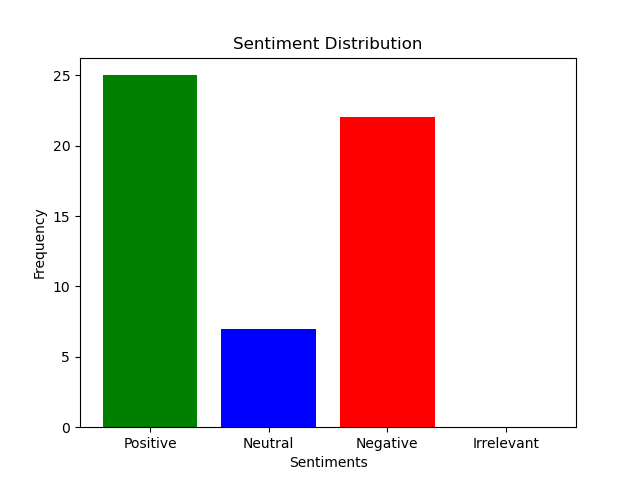
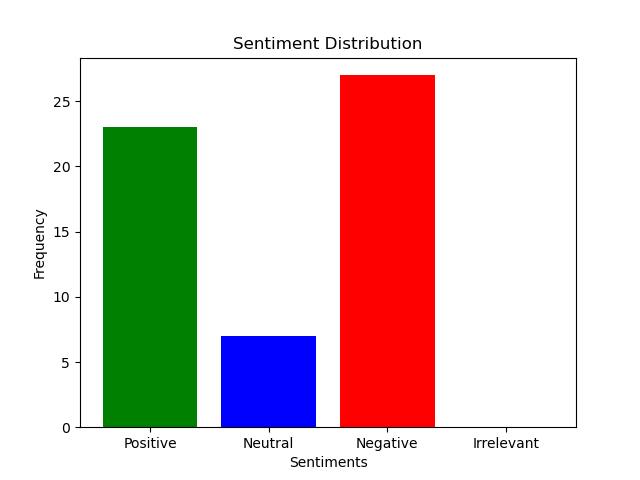
Updated

diff --git a/main.py b/main.py
@@ -8,7 +8,12 @@ def run(filepath: str):
     """
     Loads customer reviews from a JSON file, gets sentiment labels,
     and visualizes the sentiment distribution.
-    Returns a list of sentiment labels.
+
+    Args:
+        filepath (str): The path to the JSON file containing the customer reviews.
+
+    Returns:
+        list: A list of sentiment labels for each review.
     """
     # open the json object
     with open(filepath, "r") as file:

diff --git a/writeup.md b/writeup.md
@@ -2,16 +2,23 @@
 
 What is the most common sentiment observed in your sample of 50 reviews according to your OpenAI labeled data?
 
-[The most common sentiment observed in this sample of reviews is Negative, with a frequency of approximately 27.]
+[Based on the bar chart, the most common sentiment is Negative, with approximately 27 reviews in this run.
+This suggests that a significant portion of customers are dissatisfied with the current version of Zico Coconut Water, citing issues such as a plastic or odd taste, with an unpleasant aftertaste, or concerns about quality and packaging.]
 
 ## Question 2
 
 How reliable do you believe these labels are? Look at the respective labels OpenAI has generated for specific reviews, does it seem like the large language model accurately described the user's review? What risk do model hallucinations introduce into this analysis?
 
-[The labels are generally reliable but not always perfect. In some cases, the model might misinterpret the review’s tone or context, like labeling a review as positive when it’s more neutral or vice versa. Hallucinations can distort the analysis by incorrectly categorizing reviews, leading to flawed conclusions. This can affect decision-making and risk misdirecting efforts to improve the product]
+[The model is generally reliable and often captures sentiment well, but it’s not perfect. It might misinterpret mixed or nuanced reviews. Also, the model may return slightly different label counts each time it's run.
+    
+Although the reviews.json file contains 50 reviews, the model returns about 57 sentiment labels. This may be due to how it processes HTML tags like <br /> or line breaks, which could cause it to treat parts of one review as separate entries. Since the output is a list of sentiments with no direct link to each review, it’s difficult to assess label accuracy without checking them line by line.
+
+Model hallucinations can distort the analysis by incorrectly categorizing reviews, leading to flawed conclusions. This can affect decision-making and risk misdirecting efforts to improve the product. For critical use cases, it's best to manually verify a sample of the labels.]
 
 ## Question 3
 
 Using the most common sentiment, what would you recommend to this Coconut Water producer to improve customer satisfaction? Should they continue to pursue current market/product outcomes, or does there exist an opportunity for this business to improve its product?
 
-[The most common sentiment in this sample is "Negative", which suggests there are key issues with the product or customer experience. I’d recommend the Coconut Water producer look into possible problems with quality, pricing, or overall customer satisfaction and make necessary adjustments. A closer look at the reviews would help pinpoint exactly what needs to change.]
+[The most common sentiment in this sample is "Negative", highlighting key issues with Zico Coconut Water’s current product. Many reviews mention a decline in taste and quality, with complaints about the switch to plastic bottles (e.g., “it makes the drink taste like plastic”) and the product now being “from concentrate”. Some customers even suggest Zico should “go back to using fresh juice”.
+
+To improve customer satisfaction, Zico coconut water producer should consider returning to its original Tetra Pak packaging, revising the formula to taste more natural, and being transparent about product changes. These updates could help regain trust and win back disappointed loyal customers and improve overall customer perception. A deeper dive into the individual reviews would likely uncover additional actionable insights to guide their product and customer experience improvements.]
